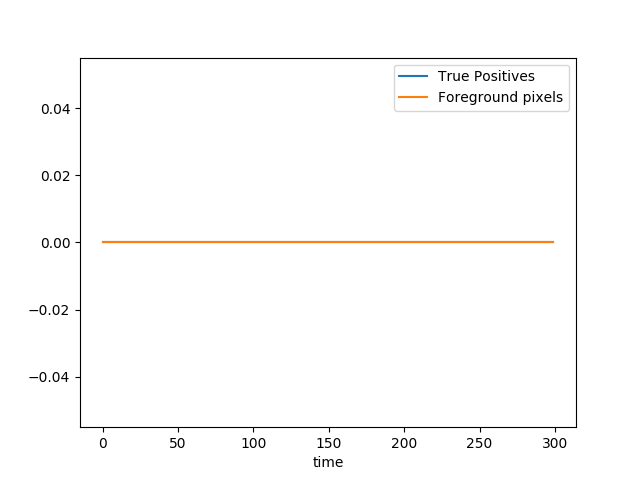
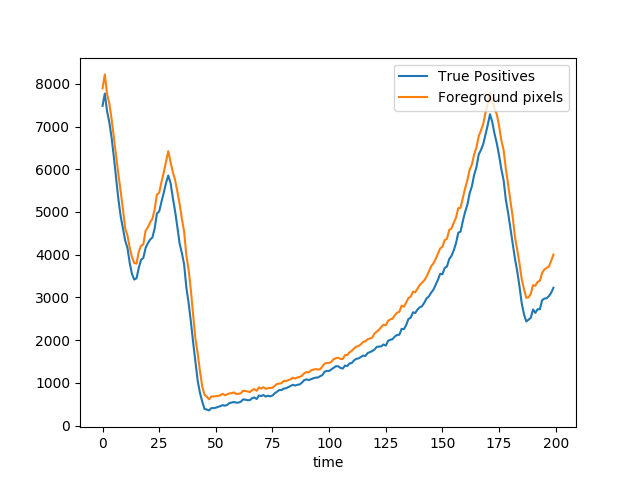
Fixed highway week 1 config

diff --git a/config/highway_week1.py b/config/highway_week1.py
@@ -5,7 +5,7 @@ gt_path                      = 'datasets/highway/groundtruth'   # Ground truth p
 results_path                 = 'datasets/highway/results_testAB_changedetection'
 
 # Input Images
-nr_images                    = 20
+nr_images                    = 200
 first_image                  = '001201'   # Fist image filename
 image_type                   = 'jpg'        # Input image type
 gt_image_type                = 'png'        # Ground truth image type
